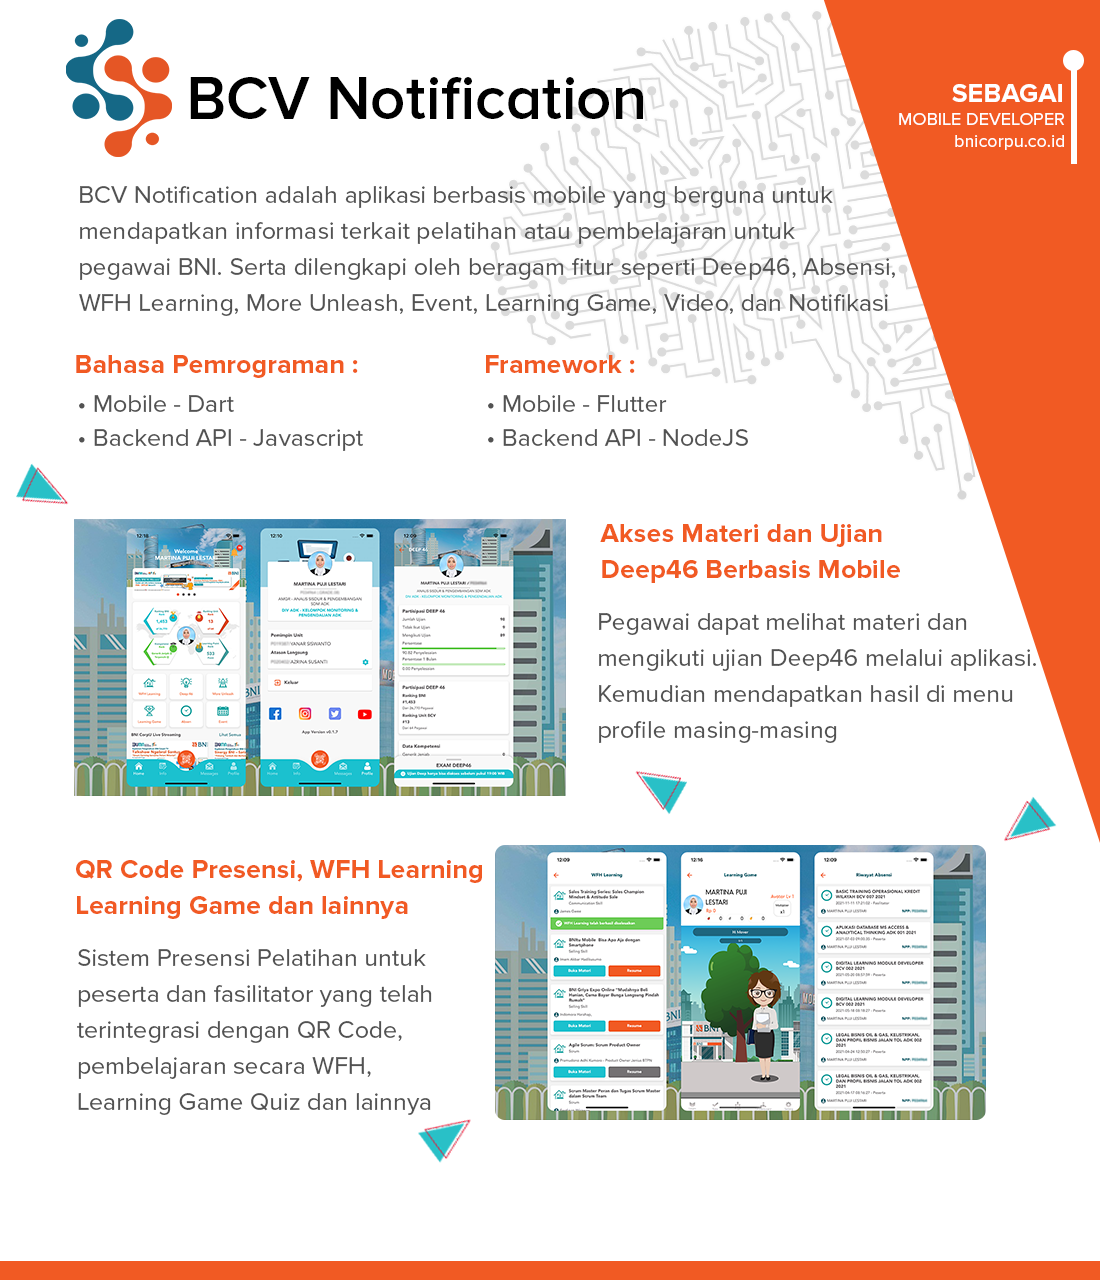
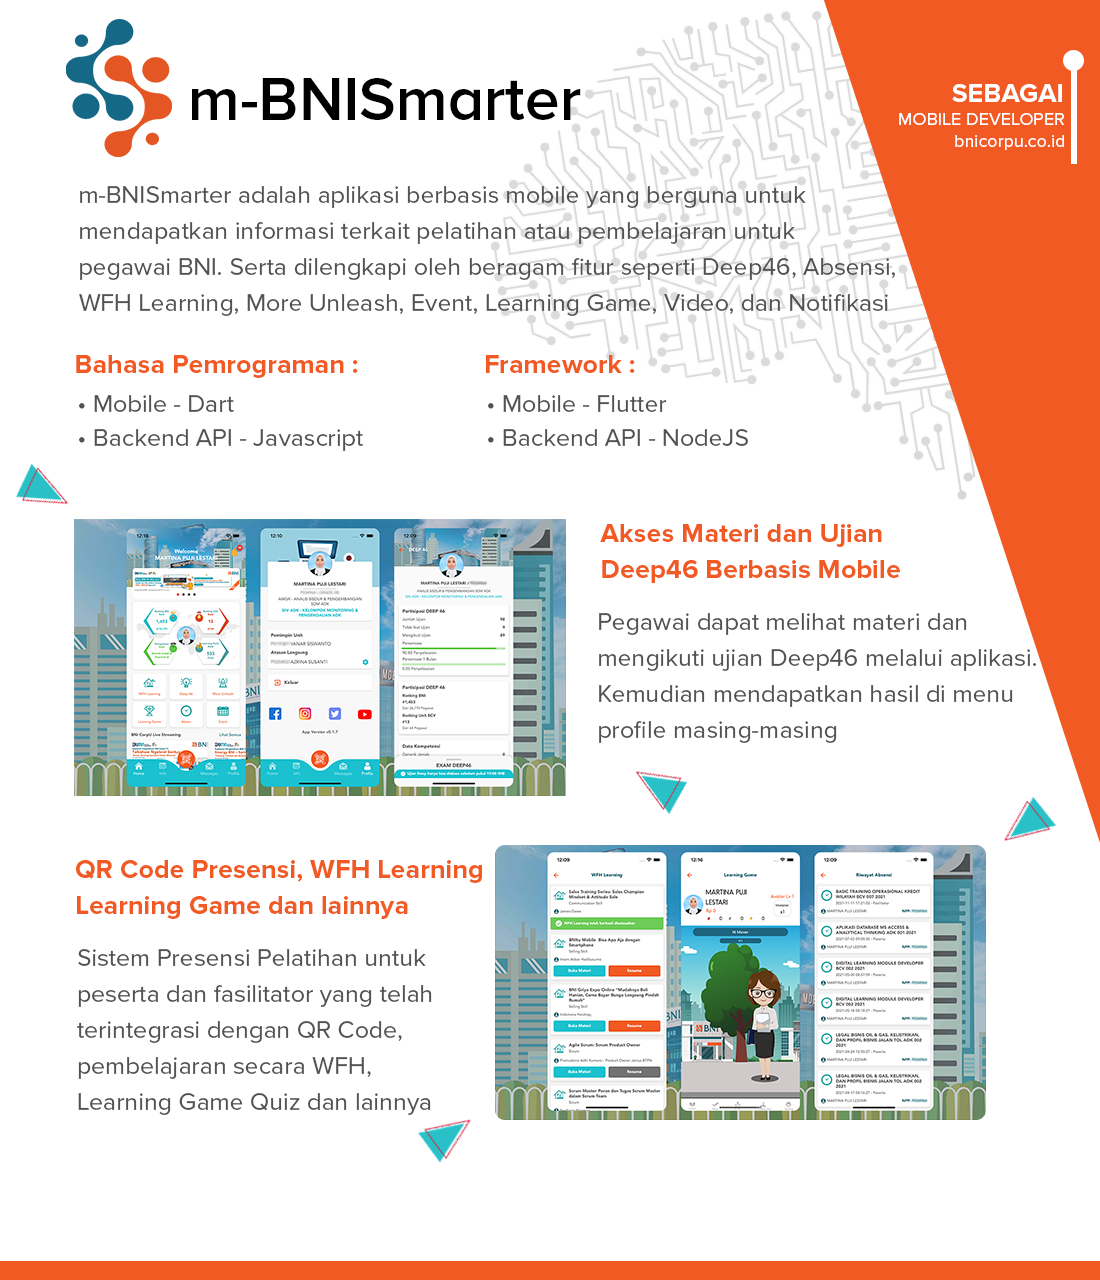
Chore: Update bni smarter

Changed region(s): [[0.0618, 0.125, 0.6491, 0.1562], [0.1545, 0.0625, 0.5873, 0.0938], [0.68, 0.125, 0.7109, 0.1562]]

diff --git a/index.html b/index.html
@@ -304,9 +304,9 @@
                                         <div class="col-sm-5">
                                             <div class="mh-featured-project-content">
                                                 <h4 class="project-category wow fadeInUp" data-wow-duration="0.8s" data-wow-delay="0.4s">Mobile Apps</h4>
-                                                <h2 class="wow fadeInUp" data-wow-duration="0.8s" data-wow-delay="0.5s">BCV Notification</h2>
+                                                <h2 class="wow fadeInUp" data-wow-duration="0.8s" data-wow-delay="0.5s">m-BNISmarter</h2>
                                                 <span class="wow fadeInUp" data-wow-duration="0.8s" data-wow-delay="0.6s">Mobile</span>
-                                                <p class="wow fadeInUp" data-wow-duration="0.8s" data-wow-delay="0.7s">BCV Notification adalah aplikasi berbasis mobile yang berguna untuk
+                                                <p class="wow fadeInUp" data-wow-duration="0.8s" data-wow-delay="0.7s">m-BNISmarter adalah aplikasi berbasis mobile yang berguna untuk
                                                     mendapatkan informasi terkait pelatihan atau pembelajaran untuk 
                                                     pegawai BNI. Serta dilengkapi oleh beragam fitur seperti Deep46, Absensi,
                                                     WFH Learning, More Unleash, Event, Learning Game, Video, dan Notifikasi     
@@ -958,7 +958,7 @@
                                         <img src="assets/images/portfolio/project-28.png" alt="img04">
                                         <figcaption class="fig-caption">
                                             <i class="fa fa-search"></i>
-                                            <h5 class="title">BCV Notification</h5>
+                                            <h5 class="title">m-BNISmarter</h5>
                                             <span class="sub-title">Mobile Apps</span>
                                             <a data-fancybox data-src="#bcv_notification"></a>
                                         </figcaption>
@@ -1438,9 +1438,9 @@
                 <div class="container">
                     <div class="row mh-portfolio-modal-inner">
                         <div class="col-sm-5">
-                            <h2>BCV Notification</h2>
+                            <h2>m-BNISmarter</h2>
                             <p>
-                                BCV Notification adalah aplikasi berbasis mobile yang berguna untuk
+                                m-BNISmarter adalah aplikasi berbasis mobile yang berguna untuk
                                 mendapatkan informasi terkait pelatihan atau pembelajaran untuk 
                                 pegawai BNI. Serta dilengkapi oleh beragam fitur seperti Deep46, Absensi,
                                 WFH Learning, More Unleash, Event, Learning Game, Video, dan Notifikasi<br>
